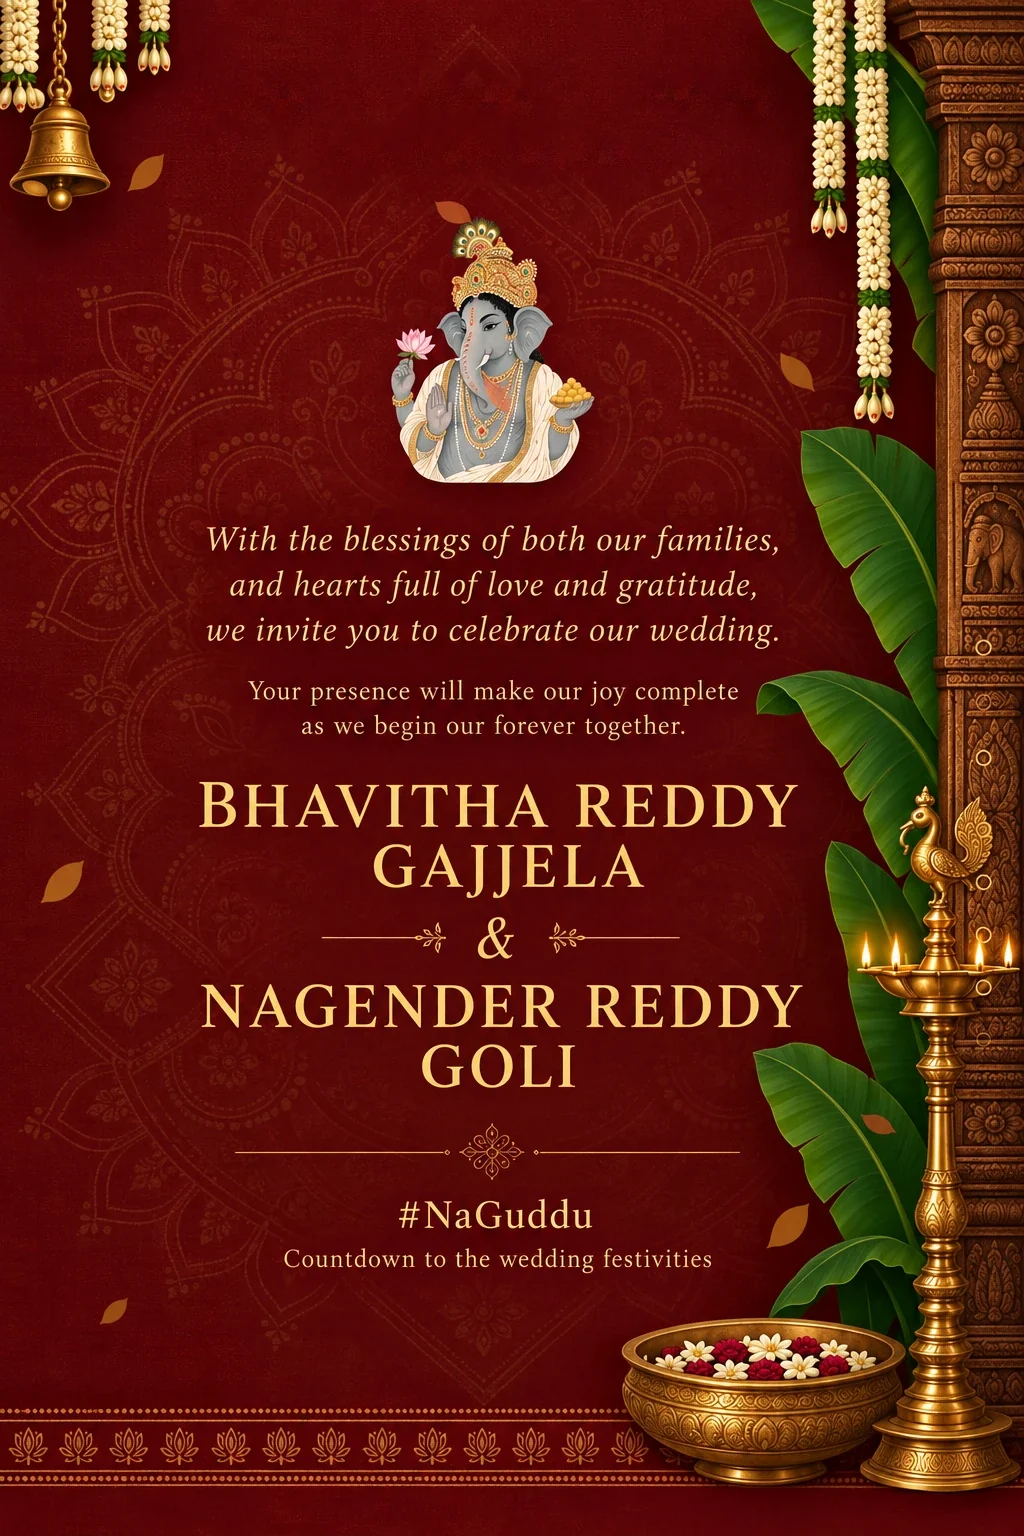
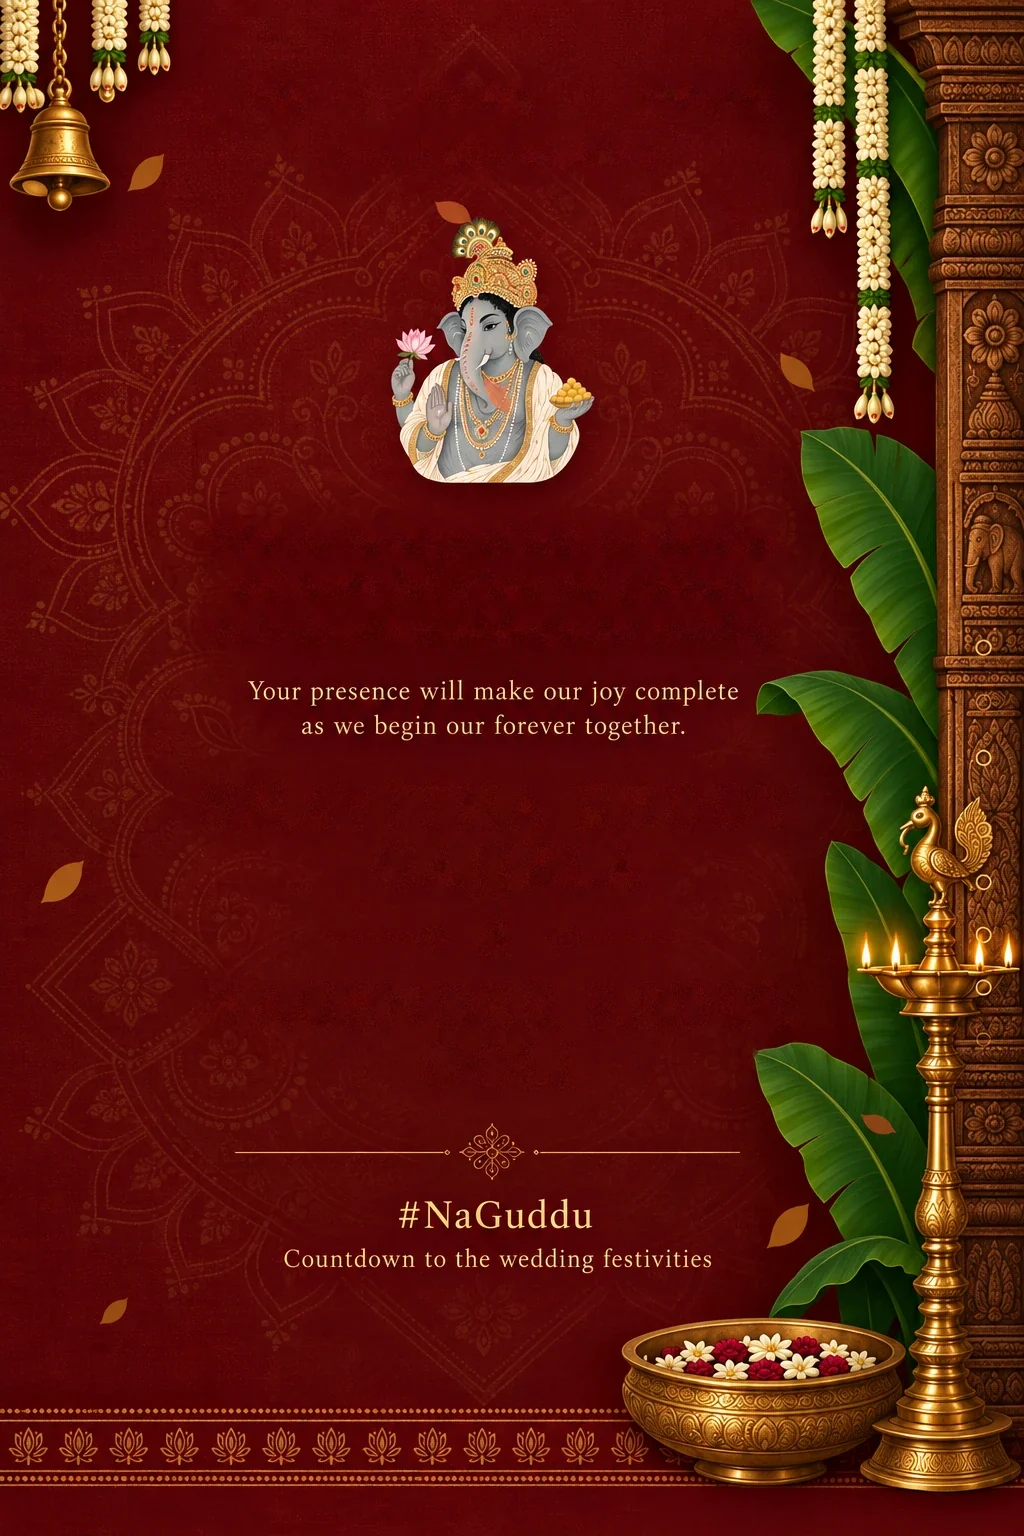
Home (English): names with parents, and Lord Ganesha in the welcome

Changed region(s): [[0.1875, 0.5, 0.7812, 0.7188], [0.2188, 0.3438, 0.75, 0.4375]]

diff --git a/src/App.tsx b/src/App.tsx
@@ -352,11 +352,20 @@ export function App() {
         {/* The couple's invitation artwork, with the live countdown placed in the space under its "Countdown" caption. */}
         <div className="cover-art">
           <img src={lang === 'en' ? homeArtEn : homeArtTe} alt={`${T.inviteLead.en} ${T.inviteSub.en} ${T.bride.en} & ${T.groom.en}. #NaGuddu`} />
-          {/* English: the blessing lines at the top. Telugu: the welcome, both names and the countdown caption. */}
+          {/* English: the blessing lines, the welcome and the couple with their parents. Telugu: the welcome, both names and the countdown caption. */}
           {lang === 'en' ? (
             <>
               <p className="cover-line cl-bless">Srirasthu <i>✦</i> Subhamasthu <i>✦</i> Avighnamasthu</p>
               <p className="cover-line cl-om">|| Om Sri Ganeshaya Namaha ||</p>
+              <p className="cover-line cl-lead cl-en">With the blessings of Lord Ganesha and both our families,<br />and hearts full of love and gratitude,<br />we invite you to celebrate our wedding.</p>
+              {/* Each name and each parents' line stays on one line. */}
+              <div className="cover-line cl-couple">
+                <p className="cl-who">Chi.La.Sow BHAVITHA REDDY GAJJELA</p>
+                <p className="cl-kin">Younger D/o Smt. Rajitha Reddy Gajjela &amp; Shri Yadav Reddy Gajjela</p>
+                <p className="cl-with">with</p>
+                <p className="cl-who">Chi. NAGENDER REDDY GOLI</p>
+                <p className="cl-kin">Elder S/o Smt. Laxmi Reddy Goli &amp; Shri Jayapal Reddy Goli (Late)</p>
+              </div>
             </>
           ) : (
             <>

diff --git a/src/style.css b/src/style.css
@@ -1012,6 +1012,14 @@ section.cocktail-reel{padding:0!important;display:block!important;isolation:isol
 .cl-bride { top: 56%; }
 .cl-groom { top: 66.2%; }
 .cl-cap { top: 81.9%; font: 2.1cqw/1.2 var(--font-body); }
+.cl-lead.cl-en { left: 46%; font-style: italic; font-size: 2.6cqw; width: 88%; }
+/* English couple block: names in the title face, parents' lines smaller; centred a little left of the card's middle to clear the leaves. */
+.cl-couple { top: 62.2%; left: 46%; width: 94%; text-shadow: 0 1px 3px rgba(40,0,0,.7); }
+.cl-couple p { margin: 0; white-space: nowrap; }
+.cl-who { font: 600 3.5cqw/1.25 var(--font-display); letter-spacing: .05em; color: #ffd384; }
+.cl-kin { font: italic 2.3cqw/1.4 var(--font-body); margin-bottom: .9em !important; }
+.cl-with { display: flex; align-items: center; justify-content: center; gap: .7em; font: italic 2.8cqw/1.2 var(--font-body); margin: .1em 0 .55em !important; }
+.cl-with::before, .cl-with::after { content: ''; width: 18%; height: 1px; background: linear-gradient(90deg, transparent, #e6b866, transparent); }
 /* Phones: the card spans the full width, starting just low enough that its top line of text clears the sound and
    language buttons, and only as wide as still keeps the countdown on screen (it ends about 89% down the card; a little margin below it).
    The #NaGuddu bar steps aside on Home (the card carries #NaGuddu itself). */
